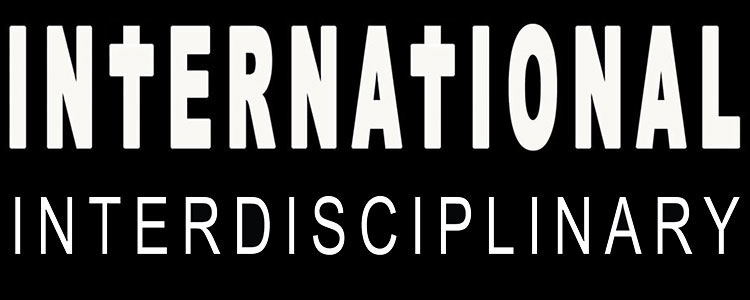
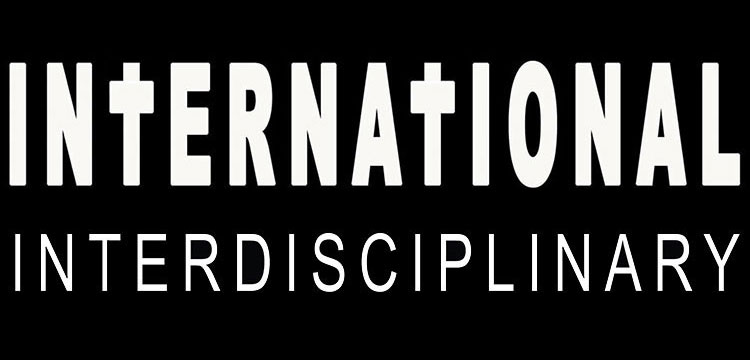
up

diff --git a/inter24back.html b/inter24back.html
@@ -38,7 +38,7 @@
 
 			<div class="image-zoom-container-max">
 				<div class="zoom-container-max">
-					<a href="inter24.html" target="_self"><img src="img/inter24back2.jpg" /></a>
+					<a href="inter24.html" target="_self"><img src="img/inter24back1.jpg" /></a>
 				</div>
 			</div>
 
